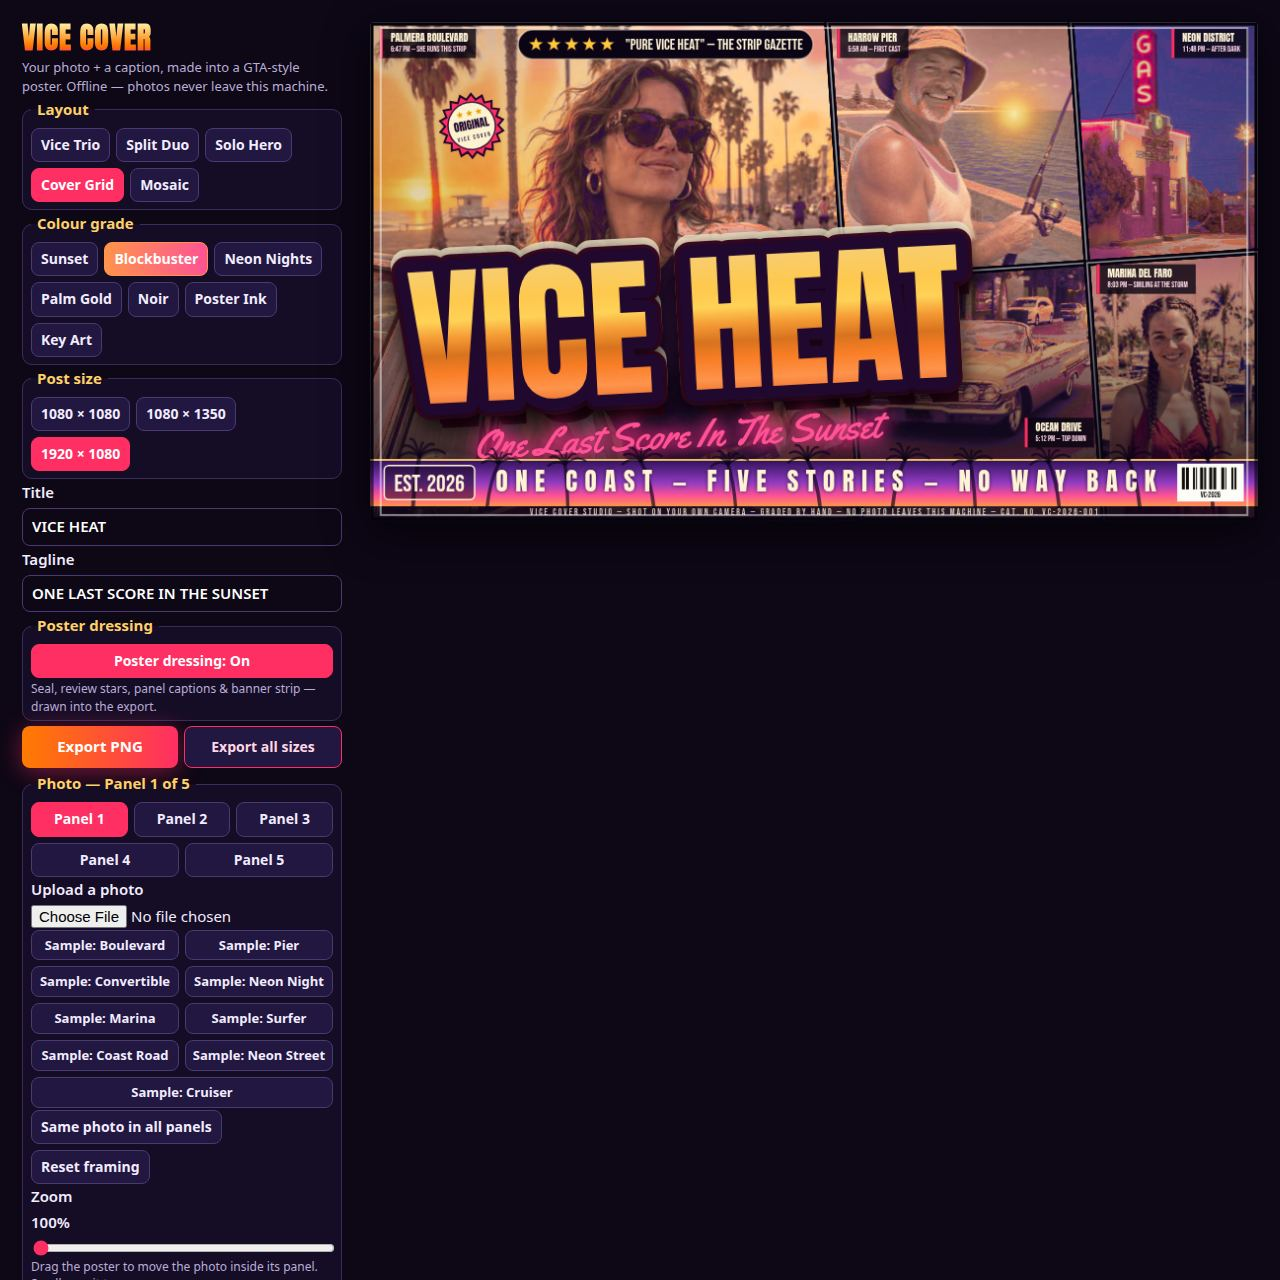
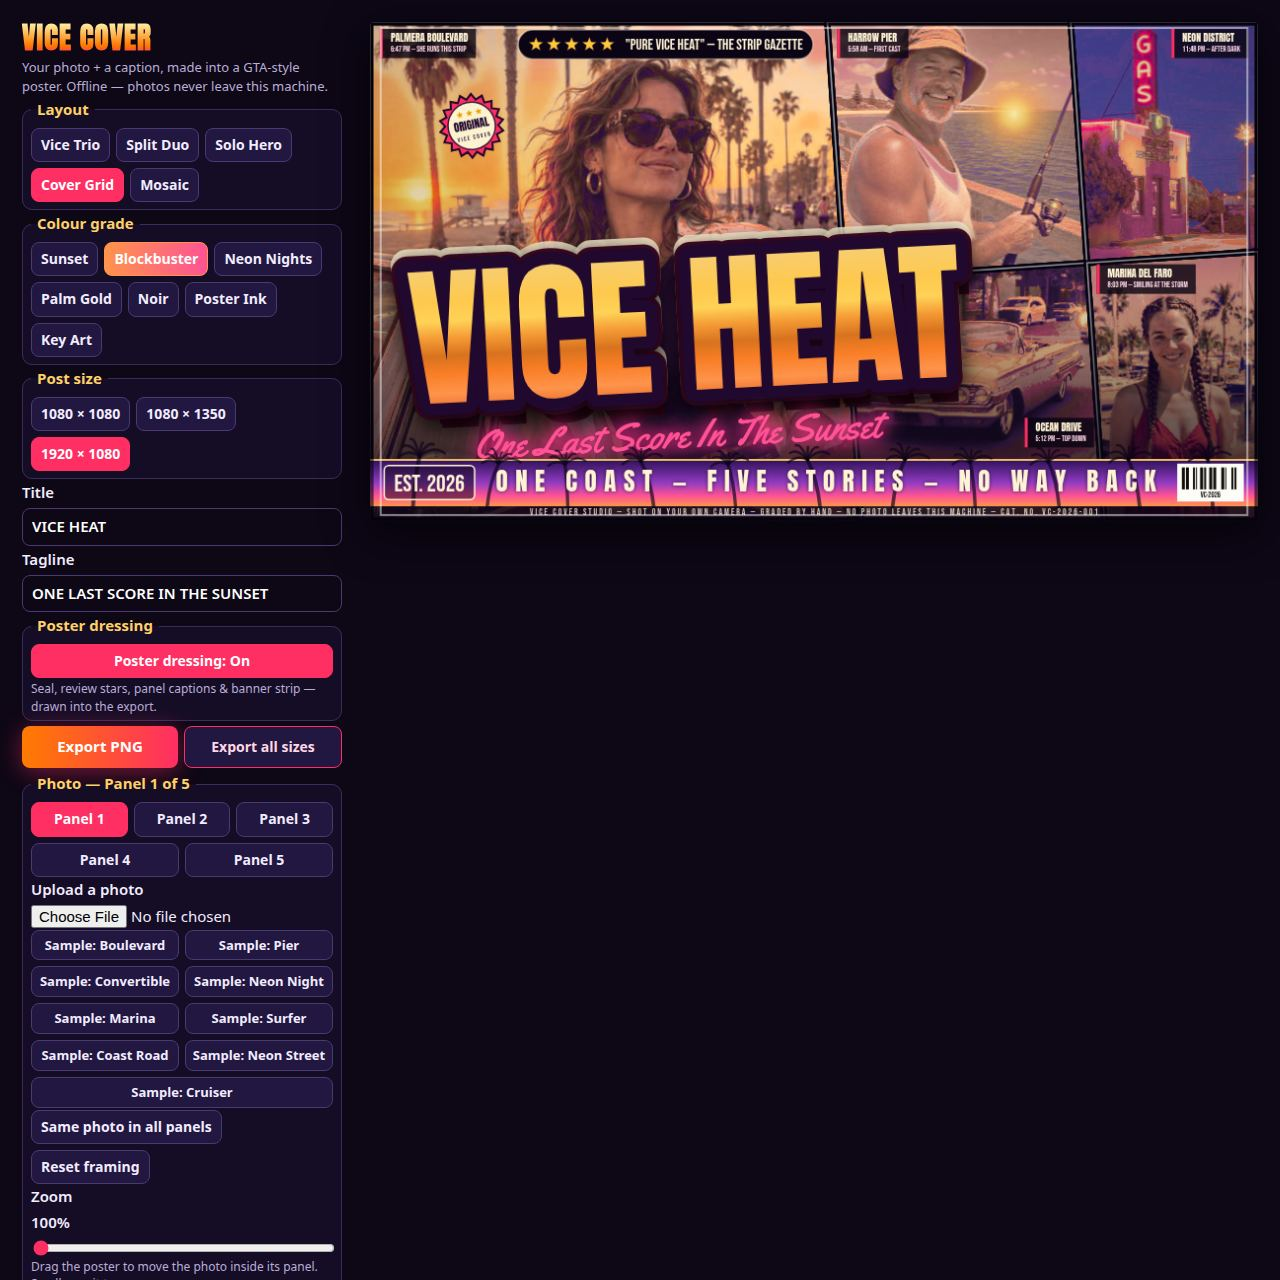
Round 41: cruiser fin clearance

Changed region(s): [[0.6875, 0.1875, 0.875, 0.3438]]

diff --git a/app/src/shots.js b/app/src/shots.js
@@ -78,9 +78,22 @@ export async function runShot(shot, query, helpers) {
   // in its top-right cell and the panel's chip — which hangs at that
   // cell's top-right — lands on pure dusk sky, clear of the sign.
   // Any other scene keeps the renderer's default framing exactly.
+  // Round 41 pulls the window back off the cell's slanted right
+  // edge: round 40's wider cell left the fin's tip and the rear
+  // bumper bullet within ~2-4 px of the gutter line, so the gutter
+  // stroke (13 px wide, centred on the edge) printed over the
+  // chrome and the fin read as cut by the divider. The new window
+  // (zoom 1.42, ox -0.01, oy -0.14) trades a hair of the empty
+  // street at the photo's left for a slightly larger car set
+  // further left: measured on the 1920x1080 export the fin's tip
+  // now ends ~16 px inside the edge (~10 px clear of the gutter
+  // band) and the bullet ~18 px, the car's box keeps its round-40
+  // height, and the visible car area holds at ~99.5% of round
+  // 40's — the small zoom-in pays back what the leftward shift
+  // hands to the lettering.
   const showcaseScene = state.layout === 'grid' && state.grade === 'blockbuster';
   const cruiserFrame = (showcaseScene && third.endsWith('cruiser.jpg'))
-    ? { zoom: 1.38, ox: 0.18, oy: -0.16 }
+    ? { zoom: 1.42, ox: -0.01, oy: -0.14 }
     : undefined;
   const neonFrame = (showcaseScene && fourth.endsWith('neon.jpg'))
     ? { zoom: 1.1, ox: -0.44, oy: 0.55 }
